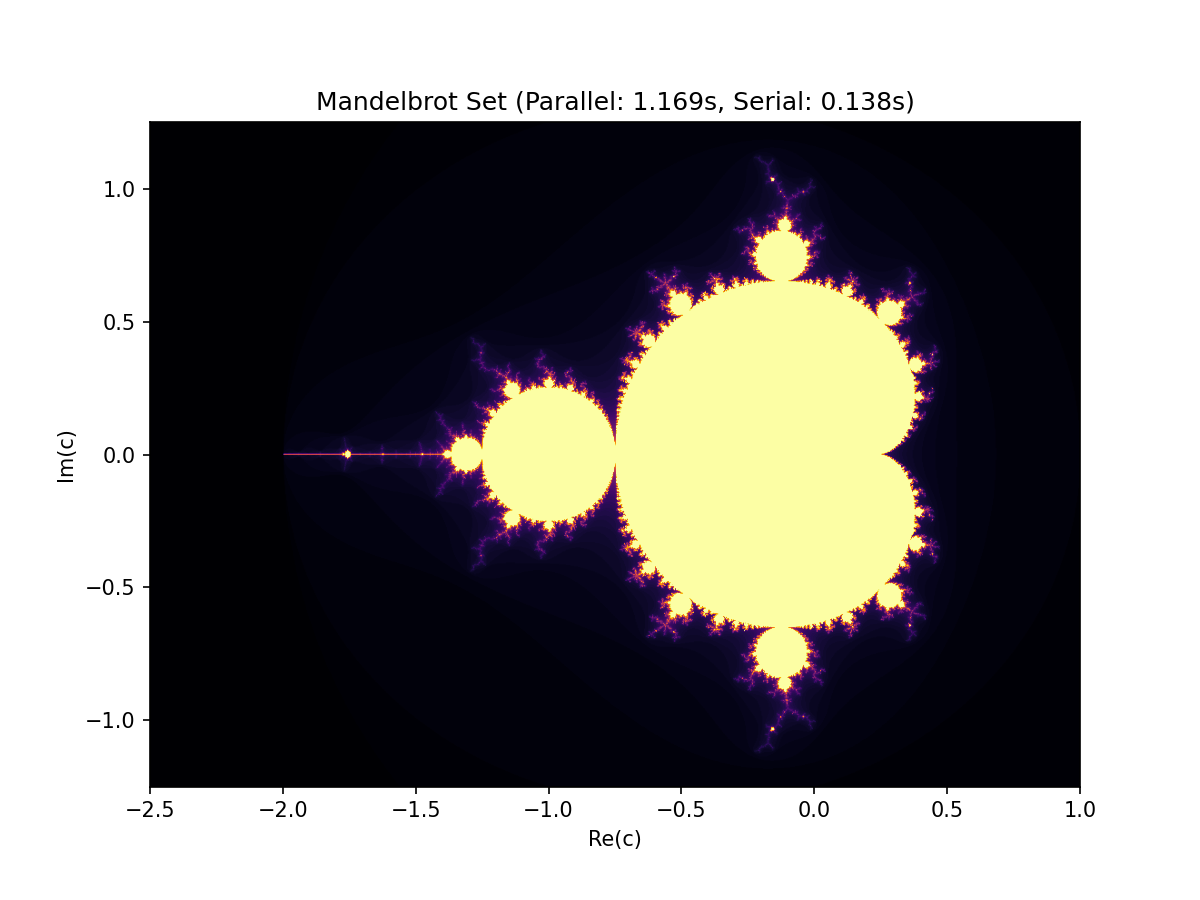
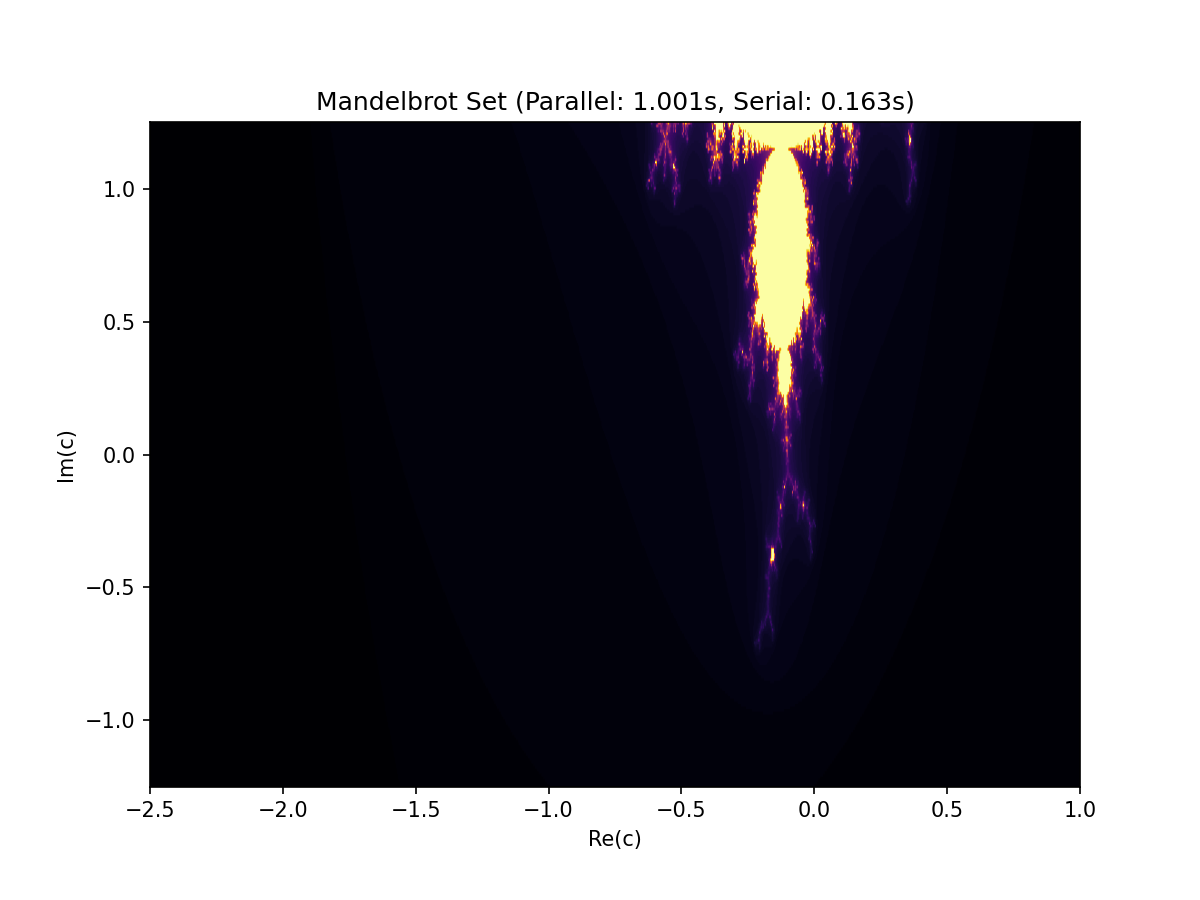
Optimal Chunk Size analysis

Changed region(s): [[0.2467, 0.0933, 0.8017, 0.84]]

diff --git a/mandelbrotmp2.py b/mandelbrotmp2.py
@@ -1,3 +1,11 @@
+#!/usr/bin/env python3
+# -*- coding: utf-8 -*-
+"""
+Created on Thu Mar 19 14:12:44 2026
+
+@author: phillycheese
+"""
+
 import numpy as np
 from numba import njit
 from multiprocessing import Pool
@@ -33,6 +41,8 @@ def mandelbrot_serial(N, x_min, x_max, y_min, y_max, max_iter=100):
 def _worker(args):
     return mandelbrot_chunk(*args)
 
+
+
 def mandelbrot_parallel(N, x_min, x_max, y_min, y_max, max_iter=100, n_workers=4, n_chunks=None, pool=None): 
     if n_chunks is None:
         n_chunks = n_workers 
@@ -44,16 +54,15 @@ def mandelbrot_parallel(N, x_min, x_max, y_min, y_max, max_iter=100, n_workers=4
         row_end = min(row + chunk_size, N)
         chunks.append((row, row_end, N, x_min, x_max, y_min, y_max, max_iter))
         row = row_end
-        if pool is not None: # caller manages Pool; skip startup + warm-up 
-            return np.vstack(pool.map(_worker, chunks))
-        
-        tiny = [(0, 8, 8, x_min, x_max, y_min, y_max, max_iter)] 
-        with Pool(processes=n_workers) as p:
-            p.map(_worker, tiny) # warm-up: load JIT cache in workers
-            parts = p.map(_worker, chunks) 
-        return np.vstack(parts)
+    
+    if pool is not None:
+        return np.vstack(pool.map(_worker, chunks))
+    
+    with Pool(processes=n_workers) as p:
+        parts = p.map(_worker, chunks) 
+    return np.vstack(parts)
 
-
+"""
 if __name__ == '__main__':
     # Parameters
     N = 1024
@@ -93,45 +102,104 @@ if __name__ == '__main__':
     plt.savefig(out, dpi=150)
     print(f'\nSaved: {out}')
     plt.show()
+"""
  
+
 if __name__ == '__main__':
+    # Parameters
+    N = 1024
+    X_MIN, X_MAX = -2.5, 1.0
+    Y_MIN, Y_MAX = -1.25, 1.25
+    MAX_ITER = 100
     
-    N, max_iter = 1024, 100
-    X_MIN, X_MAX, Y_MIN, Y_MAX = -2.5, 1.0, -1.25, 1.25
-
-    # Serial baseline (Numba already warm after M1 warm-up)
-    times = []
-    for _ in range(3):
+    # Your optimal n_workers from previous analysis
+    OPTIMAL_WORKERS = 8
+    
+    print("=" * 60)
+    print("MANDELBROT: SWEEPING N_CHUNKS WITH FIXED N_WORKERS =", OPTIMAL_WORKERS)
+    print("=" * 60)
+    
+    # First, measure serial time (T1) for LIF calculation
+    print("\nMeasuring serial baseline time (T1)...")
+    # Warm-up serial
+    mandelbrot_serial(N, X_MIN, X_MAX, Y_MIN, Y_MAX, MAX_ITER)
+    
+    serial_times = []
+    for i in range(3):
         t0 = time.perf_counter()
-        mandelbrot_serial(N, X_MIN, X_MAX, Y_MIN, Y_MAX, max_iter)
-        times.append(time.perf_counter() - t0)
-    t_serial = statistics.median(times)
-
-    print(f"Serial time (median of 3): {t_serial:.3f}s")
-    print("\nParallel scaling:")
-    print("-" * 50)
-
-    for n_workers in range(1, os.cpu_count() + 1):
-        chunk_size = max(1, N // n_workers)
-        chunks, row = [], 0
-        while row < N:
-            end = min(row + chunk_size, N)
-            chunks.append((row, end, N, X_MIN, X_MAX, Y_MIN, Y_MAX, max_iter))
-            row = end
+        mandelbrot_serial(N, X_MIN, X_MAX, Y_MIN, Y_MAX, MAX_ITER)
+        serial_times.append(time.perf_counter() - t0)
+    
+    T1 = statistics.median(serial_times)
+    print(f"Serial time (T1) = {T1:.4f} seconds (median of 3 runs)")
+    
+    # Test different n_chunks configurations
+    chunk_factors = [1, 2, 4, 8, 16]
+    n_chunks_values = [OPTIMAL_WORKERS * factor for factor in chunk_factors]
+    
+    results = []
+    baseline_time = None
+    
+    # Create a SINGLE Pool and reuse it for all configurations
+    print("\nCreating Pool with", OPTIMAL_WORKERS, "workers...")
+    with Pool(processes=OPTIMAL_WORKERS) as pool:
+        # Warm up the pool once with a tiny computation
+        tiny_chunk = [(0, 8, 8, X_MIN, X_MAX, Y_MIN, Y_MAX, MAX_ITER)]
+        pool.map(_worker, tiny_chunk)
+        print("Pool warm-up complete\n")
         
-        with Pool(processes=n_workers) as pool:
-            # Warm-up: Numba JIT in all workers
-            pool.map(_worker, chunks)
+        for factor, n_chunks in zip(chunk_factors, n_chunks_values):
+            print(f"Testing n_chunks = {n_chunks} ({factor}× workers)...", end="", flush=True)
             
-            # Timed runs
+            # Warm-up run for this chunk configuration (not timed)
+            _ = mandelbrot_parallel(N, X_MIN, X_MAX, Y_MIN, Y_MAX, MAX_ITER, 
+                                    n_workers=OPTIMAL_WORKERS, n_chunks=n_chunks, pool=pool)
+            
+            # Timed runs (3 repetitions)
             times = []
-            for _ in range(3):
+            for run in range(3):
                 t0 = time.perf_counter()
-                np.vstack(pool.map(_worker, chunks))
+                _ = mandelbrot_parallel(N, X_MIN, X_MAX, Y_MIN, Y_MAX, MAX_ITER, 
+                                       n_workers=OPTIMAL_WORKERS, n_chunks=n_chunks, pool=pool)
                 times.append(time.perf_counter() - t0)
-        
-        t_par = statistics.median(times)
-        speedup = t_serial / t_par
-        efficiency = (speedup / n_workers) * 100
-        print(f"{n_workers:2d} workers: {t_par:.3f}s, speedup={speedup:.2f}x, eff={efficiency:.0f}%")
-        
+            
+            Tp = statistics.median(times)
+            print(f" {Tp:.4f}s")
+            
+            # Calculate vs. 1×
+            if factor == 1:
+                baseline_time = Tp
+                vs_1x = "baseline"
+            else:
+                vs_1x = f"{Tp/baseline_time:.2f}×"
+            
+            # Calculate LIF
+            LIF = OPTIMAL_WORKERS * Tp / T1 - 1
+            
+            results.append({
+                'n_chunks': n_chunks,
+                'factor': f"{factor}×",
+                'time': Tp,
+                'vs_1x': vs_1x,
+                'LIF': LIF
+            })
+    
+    # Print the formatted table
+    print("\n" + "=" * 60)
+    print("RESULTS TABLE")
+    print("=" * 60)
+    print(f"\nFixed n_workers = {OPTIMAL_WORKERS} (your L04 optimum)")
+    print("\n| n_chunks | time (s) | vs. 1×    | LIF      |")
+    print("|----------|----------|-----------|----------|")
+    
+    for r in results:
+        print(f"| {r['n_chunks']:<8} | {r['time']:.4f}   | {r['vs_1x']:<9} | {r['LIF']:.4f}   |")
+    
+    # Find sweet spot (minimum LIF)
+    sweet_spot = min(results, key=lambda x: x['LIF'])
+    
+    print("\n" + "=" * 60)
+    print(f"✓ Sweet spot: n_chunks = {sweet_spot['n_chunks']} ({sweet_spot['factor']})")
+    print(f"  Time: {sweet_spot['time']:.4f}s, LIF: {sweet_spot['LIF']:.4f}")
+    print("=" * 60)
+    
